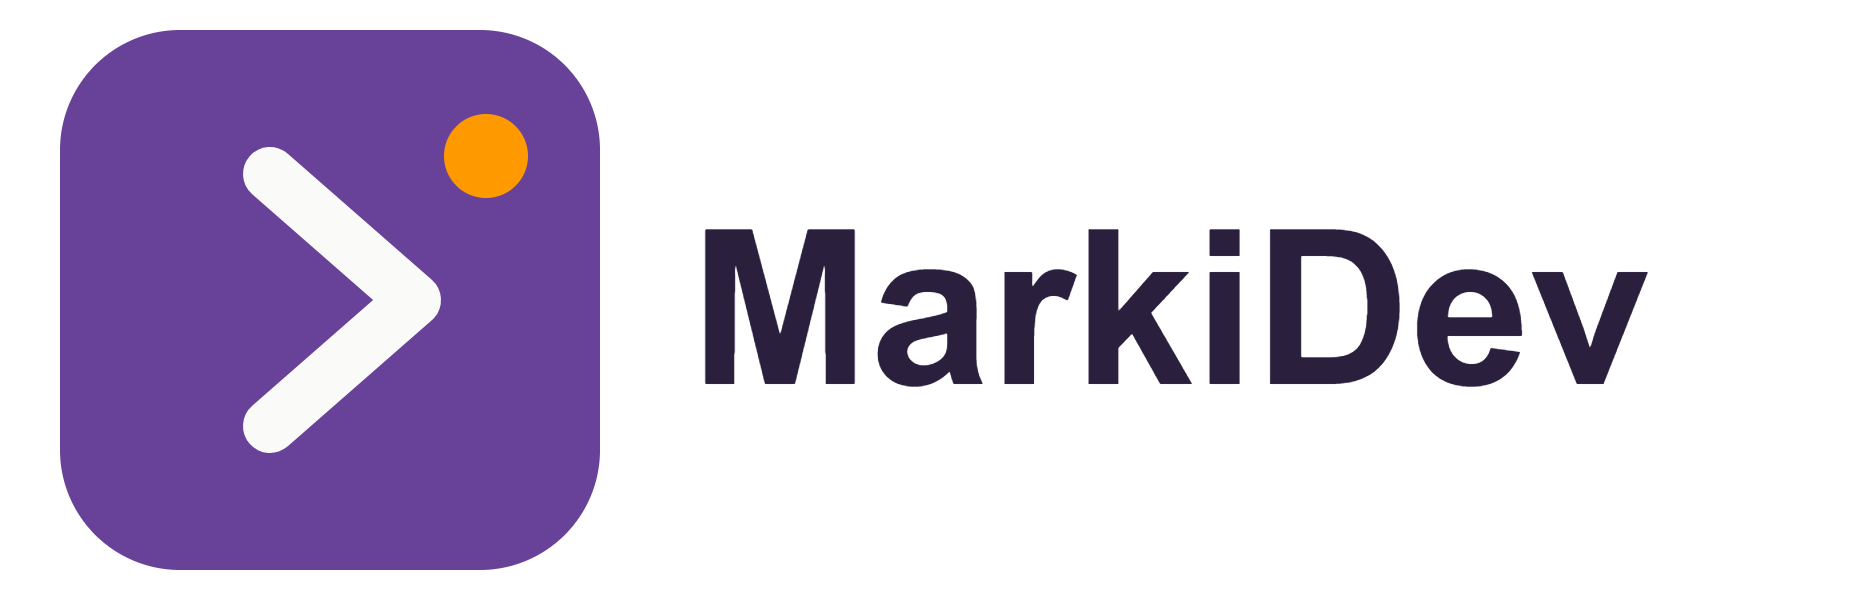
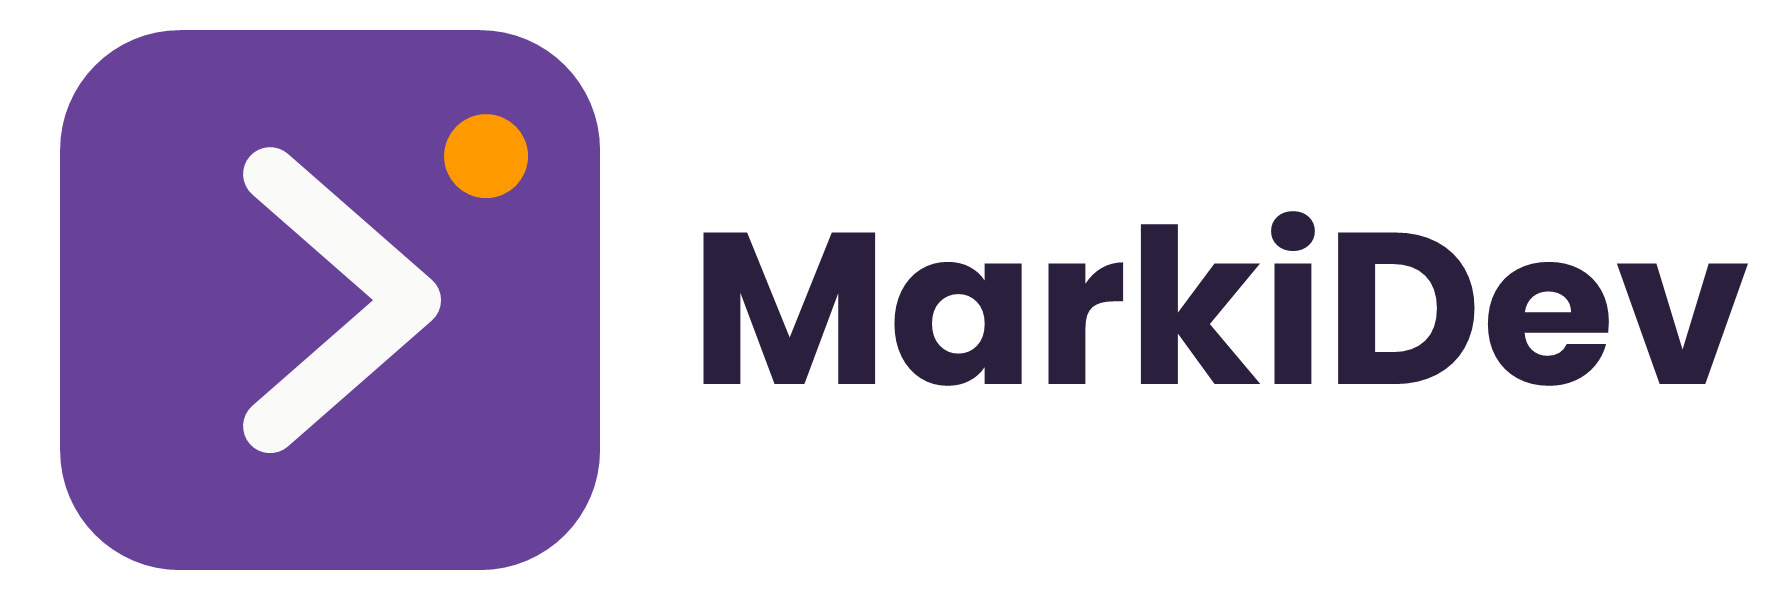
fix(marca): vectoriza el nombre del lockup en Poppins 700
El lockup entregado traia «MarkiDev» como <text> sin vectorizar, asi que sin
Poppins instalada caia a Arial: el SVG, el PNG y el PDF salieron con la
tipografia equivocada. Ahora el nombre son contornos y el lockup lo genera el
mismo script que el resto de los assets.

Va en 700 y no en el 600 del original porque el sitio carga una sola cara de
Poppins; con dos pesos la marca se veria distinta segun donde se mire.

Los contornos coinciden con la fuente real dentro del redondeo del archivo:
0.06 unidades sobre 348 de ancho, medido contra opentype.js.

Claude-Session: https://claude.ai/code/session_011Dxx3PWQi5r7PnLdRBPKwG

diff --git a/brand/LEEME.md b/brand/LEEME.md
@@ -1,40 +1,51 @@
 # Marca
 
-Archivos fuente de la identidad de MarkiDev. **No los sirve el sitio**: lo que
-llega al navegador vive en `public/` y lo genera
-`scripts/generar-assets-marca.ps1` desde estas mismas primitivas.
+Archivos de la identidad de MarkiDev. **No los sirve el sitio**: lo que llega
+al navegador vive en `public/`.
 
-| Archivo                     | Uso                                          |
-| --------------------------- | -------------------------------------------- |
-| `MarkiDev-isotipo-clara.*`  | el chevron sobre placa morada. Fondos claros |
-| `MarkiDev-isotipo-oscura.*` | placa naranja, chevron negro. Fondos oscuros |
-| `MarkiDev-lockup-clara.*`   | isotipo + nombre. Fondos claros              |
-| `MarkiDev-lockup-oscura.*`  | isotipo + nombre. Fondos oscuros             |
+| Archivo                     | Uso                                          | Origen   |
+| --------------------------- | -------------------------------------------- | -------- |
+| `MarkiDev-isotipo-clara.*`  | el chevron sobre placa morada. Fondos claros | a mano   |
+| `MarkiDev-isotipo-oscura.*` | placa naranja, chevron negro. Fondos oscuros | a mano   |
+| `MarkiDev-lockup-clara.*`   | isotipo + nombre. Fondos claros              | generado |
+| `MarkiDev-lockup-oscura.*`  | isotipo + nombre. Fondos oscuros             | generado |
 
-Los SVG son la fuente de verdad; los PNG (1024 px el isotipo, 1860 px el
-lockup) salieron de ellos.
-
-## Dos cosas antes de usarlos
-
-**El lockup tiene el nombre en la tipografía equivocada.** El SVG dejó
-«MarkiDev» como `<text>` con `font-family="Poppins, Arial, sans-serif"` y
-`font-weight="600"`, sin vectorizar. Sin Poppins instalada cae a Arial, y así
-se rasterizaron el PNG y el PDF. Antes de mandar el lockup a imprenta o a una
-red social hay que vectorizar ese texto en Poppins.
-
-Es también la razón de que la imagen de previa no se componga a partir del
-lockup: se dibuja desde cero para poder usar Poppins 700 de verdad.
-
-**El isotipo va a sangre en iOS.** Apple pinta de negro lo que sea transparente
-y encima aplica su propia máscara redondeada, así que `apple-touch-icon.png` no
-lleva ni alfa ni esquinas redondeadas propias.
-
-## Regenerar lo que sirve el sitio
+El isotipo SVG es la fuente de verdad de toda la marca. Todo lo demás sale de
+`scripts/generar-assets-marca.ps1`:
 
 ```
 pwsh -File scripts/generar-assets-marca.ps1
 ```
 
-Escribe `public/apple-touch-icon.png`, `public/favicon-32.png` y
-`public/og-markidev.png`. `public/favicon.svg` se mantiene a mano: lleva dentro
-una consulta de `prefers-color-scheme` y por eso no se genera.
+Escribe los cuatro archivos del lockup y, en `public/`, el icono de iOS, el
+respaldo del favicon y la imagen de previa. `public/favicon.svg` también se
+mantiene a mano: lleva dentro una consulta de `prefers-color-scheme`.
+
+## Tres cosas antes de usarlos
+
+**El nombre del lockup son contornos, no texto.** Se ve igual en cualquier
+parte y no depende de que haya una fuente instalada. El que entregó el
+proveedor traía «MarkiDev» como `<text>` con
+`font-family="Poppins, Arial, sans-serif"` sin vectorizar, así que sin Poppins
+caía a Arial — y así se rasterizaron su PNG y su PDF. Los contornos de ahora
+coinciden con Poppins 700 real dentro del redondeo del archivo (0.06 unidades
+sobre 348 de ancho, verificado contra `opentype.js`).
+
+**Van en Poppins 700, no en el 600 del original.** El sitio carga una sola cara
+de Poppins y es la 700; con el lockup en 600 la marca tendría dos pesos según
+dónde se mire. Si algún día se quiere el 600, se cambia `$PesoNombre` en el
+script y se vuelve a correr.
+
+**Los PDF de la entrega original quedaron obsoletos.** Nunca entraron al
+repositorio y siguen con el nombre en Arial. Si hacen falta, se exportan desde
+estos SVG.
+
+## Dónde NO va el lockup
+
+Dentro del sitio, en ningún lado. Ahí va el isotipo y el nombre se escribe como
+HTML con Poppins 700. El lockup es para redes, documentos y la imagen de
+previa.
+
+Y el isotipo va a sangre en iOS: Apple pinta de negro lo que sea transparente y
+encima aplica su propia máscara redondeada, así que `apple-touch-icon.png` no
+lleva ni alfa ni esquinas redondeadas propias.
